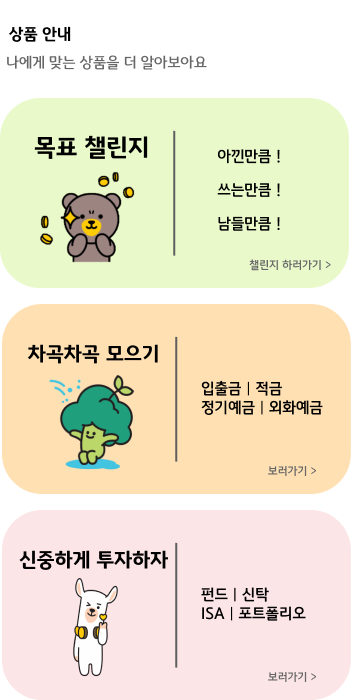
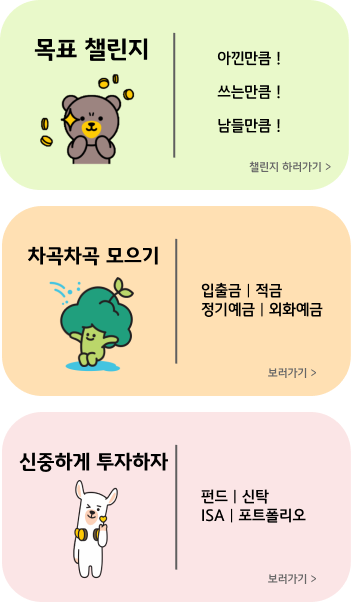
feat: 글씨 흐림 이슈 해결

diff --git a/src/pages/SavingsPage.js b/src/pages/SavingsPage.js
@@ -1,9 +1,14 @@
 import React, { useEffect } from 'react';
 import saving from '../assets/images/productPage.png';
+import styles from '../styles/saving.module.css';
 
 function SavingsPage() {
   return (
     <div className="body-container">
+      <div className={styles.wrapper}>
+        <div className={styles.h1}>상품 안내</div>
+        <div className={styles.h2}>나에게 맞는 상품을 더 알아보아요</div>
+      </div>
       <img style={{ width: '100%' }} src={saving} alt="chart" />
     </div>
   );

diff --git a/src/styles/saving.module.css b/src/styles/saving.module.css
@@ -1,0 +1,17 @@
+.h1 {
+    font-family: 'KBTitleB';
+    font-size: 16px;
+}
+.h2{
+    font-family: 'KBTitleM';
+    font-size: 15px;
+    color: #676666;
+}
+
+.wrapper {
+    display: flex;
+    flex-direction: column;
+    gap: 8px;
+    margin: 20px 0px;
+    margin-left: 5px;
+}
